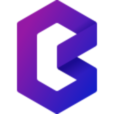
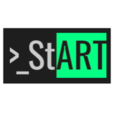
Start.Art로 바꾸고, 로고 추가.

diff --git a/components/organisms/Feed.tsx b/components/organisms/Feed.tsx
@@ -9,13 +9,15 @@ import Icon from '../atoms/Icon'
 import Photo from './Photo'
 import { drawImageFromBytes } from '../../utils/imageUtils'
 import caver from '../../klaytn/caver'
+import { start } from 'repl'
 
 export default function Feed() {
   const dispatch = useDispatch()
   const isLoading = useSelector((state: RootState) => state.loading.isLoading)
   const feed = useSelector((state: RootState) => state.photos.feed)
   const [chainId, setChainId] = useState(undefined)
-  const description = `Klaytn-based NFT photo licensing application 📸`
+  const description = `Start NFT Art with Start.Art `
+  // const description = `Klaytn-based NFT photo licensing application 📸`
 
   function showDetailModal(event: React.MouseEvent<HTMLImageElement>) {
     const { id, src } = event.currentTarget.dataset
@@ -46,17 +48,17 @@ export default function Feed() {
             <div className={cssChainImage}>
               <Icon iconName="klaytnLogo" />
             </div>
-            <div className={cssChainId}>{chainId}</div>
+            <div className={cssChainId}>Start.Art</div>
             <div className={cssChainInfo}>
               <span className={cssPostsNumber}>{feed.length} </span>
-              <span>posts</span>
+              <span>ARTs</span>
             </div>
             <div className={cssChainDescription}>{description}</div>
           </header>
           <div className={cssInfoSeparator}>
             <div className={cssSelectedInfo}>
-              <Icon iconName="grid" />
-              <span>posts</span>
+              {/* <Icon iconName="grid" /> */}
+              <span>arts</span>
             </div>
           </div>
         </>

diff --git a/components/molecules/Footer.tsx b/components/molecules/Footer.tsx
@@ -9,7 +9,8 @@ export default function Footer() {
     { title: `Klaytnscope`, link: URL.KLAYTN_SCOPE },
     { title: `Klaytn Wallet`, link: URL.KLAYTN_WALLET },
     { title: `Klaytn Docs`, link: URL.KLAYTN_DOCS },
-    { title: `Ground X Official Site`, link: URL.GROUNDX_HOMEPAGE },
+    // { title: `Ground X Official Site`, link: URL.GROUNDX_HOMEPAGE },
+    { title: `Start.Art`, link: URL.START_ART },
     { title: `Borabit`, link: URL.BORABIT },
   ]
 
@@ -24,7 +25,7 @@ export default function Footer() {
           )
         })}
       </ul>
-      <p className={cssCopyright}>@ 2022 Borastagram from Klaytn</p>
+      <p className={cssCopyright}>@ 2022 Start.Art</p>
     </footer>
   )
 }

diff --git a/constants/url.ts b/constants/url.ts
@@ -1,7 +1,8 @@
 export const KLAYTN_HOMEPAGE = `https://www.klaytn.com/`
-export const KLAYTN_SCOPE = `https://v2.baobab.scope.klaytn.com/`
+export const KLAYTN_SCOPE = `https://baobab.scope.klaytn.com/`
 export const KLAYTN_WALLET = `https://baobab.wallet.klaytn.com/`
 export const KLAYTN_DOCS = `https://docs.klaytn.com/`
 export const KLAY_FAUCET = `https://baobab.wallet.klaytn.com/access?next=faucet`
-export const GROUNDX_HOMEPAGE = `https://groundx.xyz/`
+export const START_ART = `https://start.art/`
+// export const GROUNDX_HOMEPAGE = `https://groundx.xyz/`
 export const BORABIT = `https://www.borabit.com/`

diff --git a/components/atoms/Logo.tsx b/components/atoms/Logo.tsx
@@ -8,7 +8,7 @@ interface ILogo {
 export default function Logo({ className }: ILogo) {
   return (
     <div className={cx({ [cssLogo]: true }, { [className]: !!className })}>
-      <h1>Borastagram</h1>
+      <h1>{'>'}_Start.Art</h1>
     </div>
   )
 }

diff --git a/components/atoms/Layout.tsx b/components/atoms/Layout.tsx
@@ -21,7 +21,7 @@ export default function Layout({ children }) {
   return (
     <>
       <Head>
-        <title>Borastagram</title>
+        <title>Start.Art</title>
         <link
           rel="apple-touch-icon"
           sizes="57x57"

diff --git a/styles/global-css.ts b/styles/global-css.ts
@@ -26,6 +26,7 @@ const globalCss = {
     borderRadius: `0.5rem`,
     fontSize,
     fontPercent: getFontPercent(),
+    
   },
   color: {
     backgroundColor: `var(--background-base)`,
